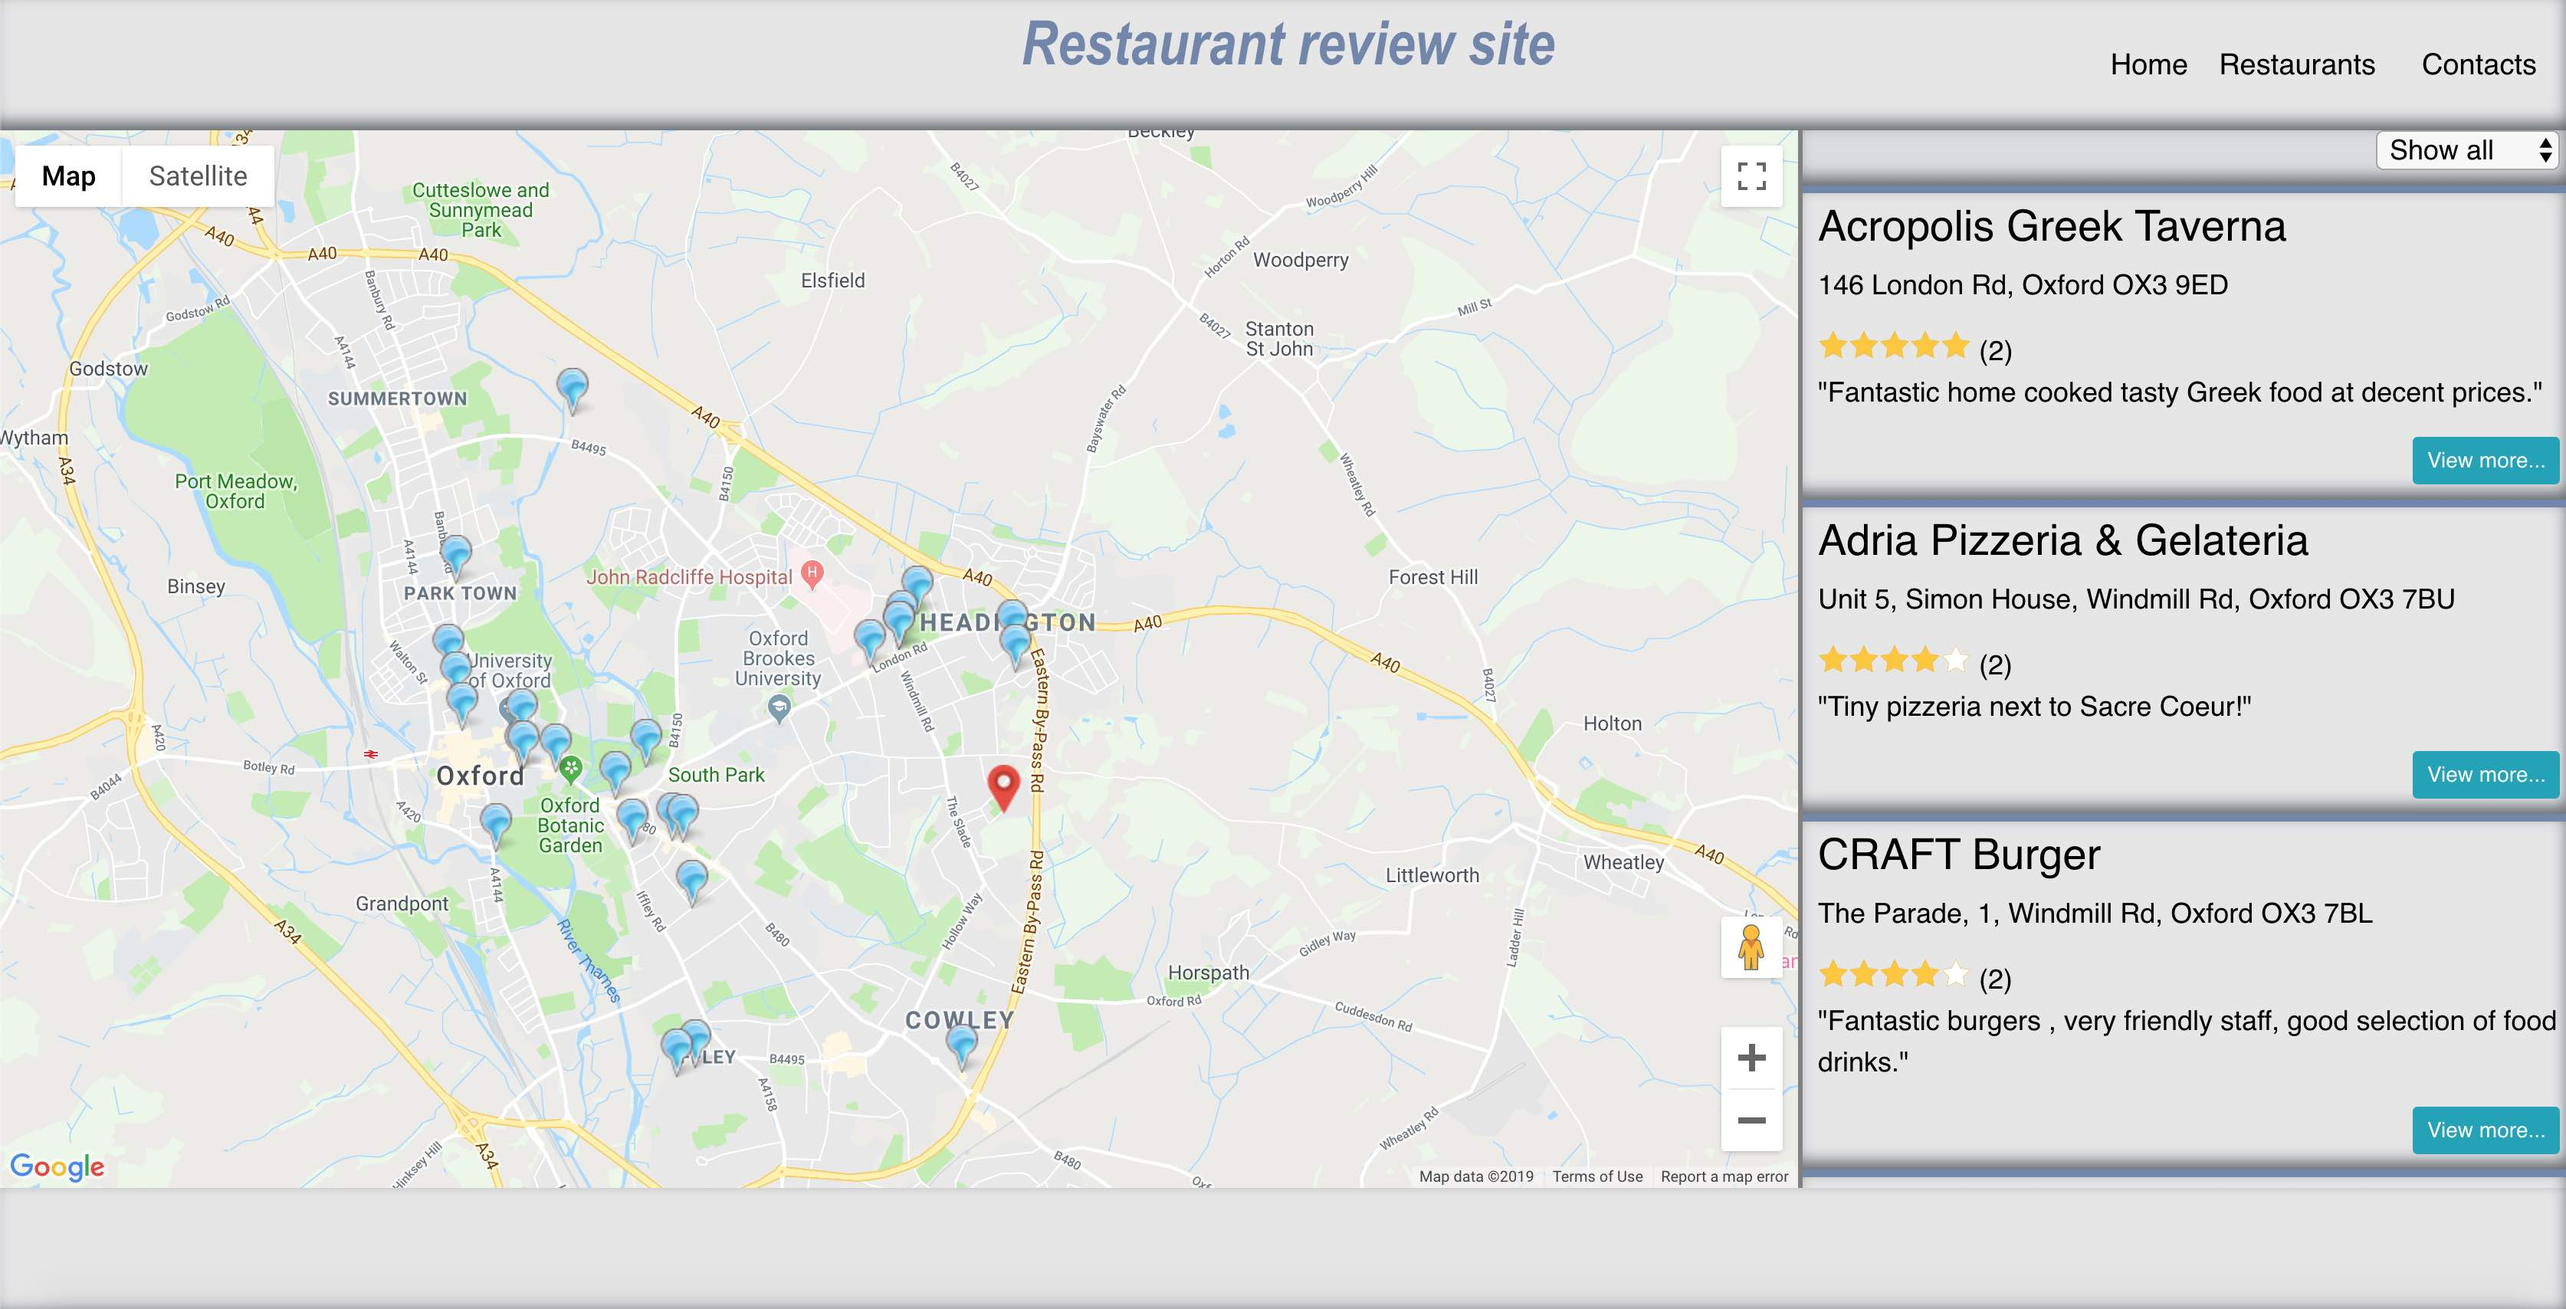
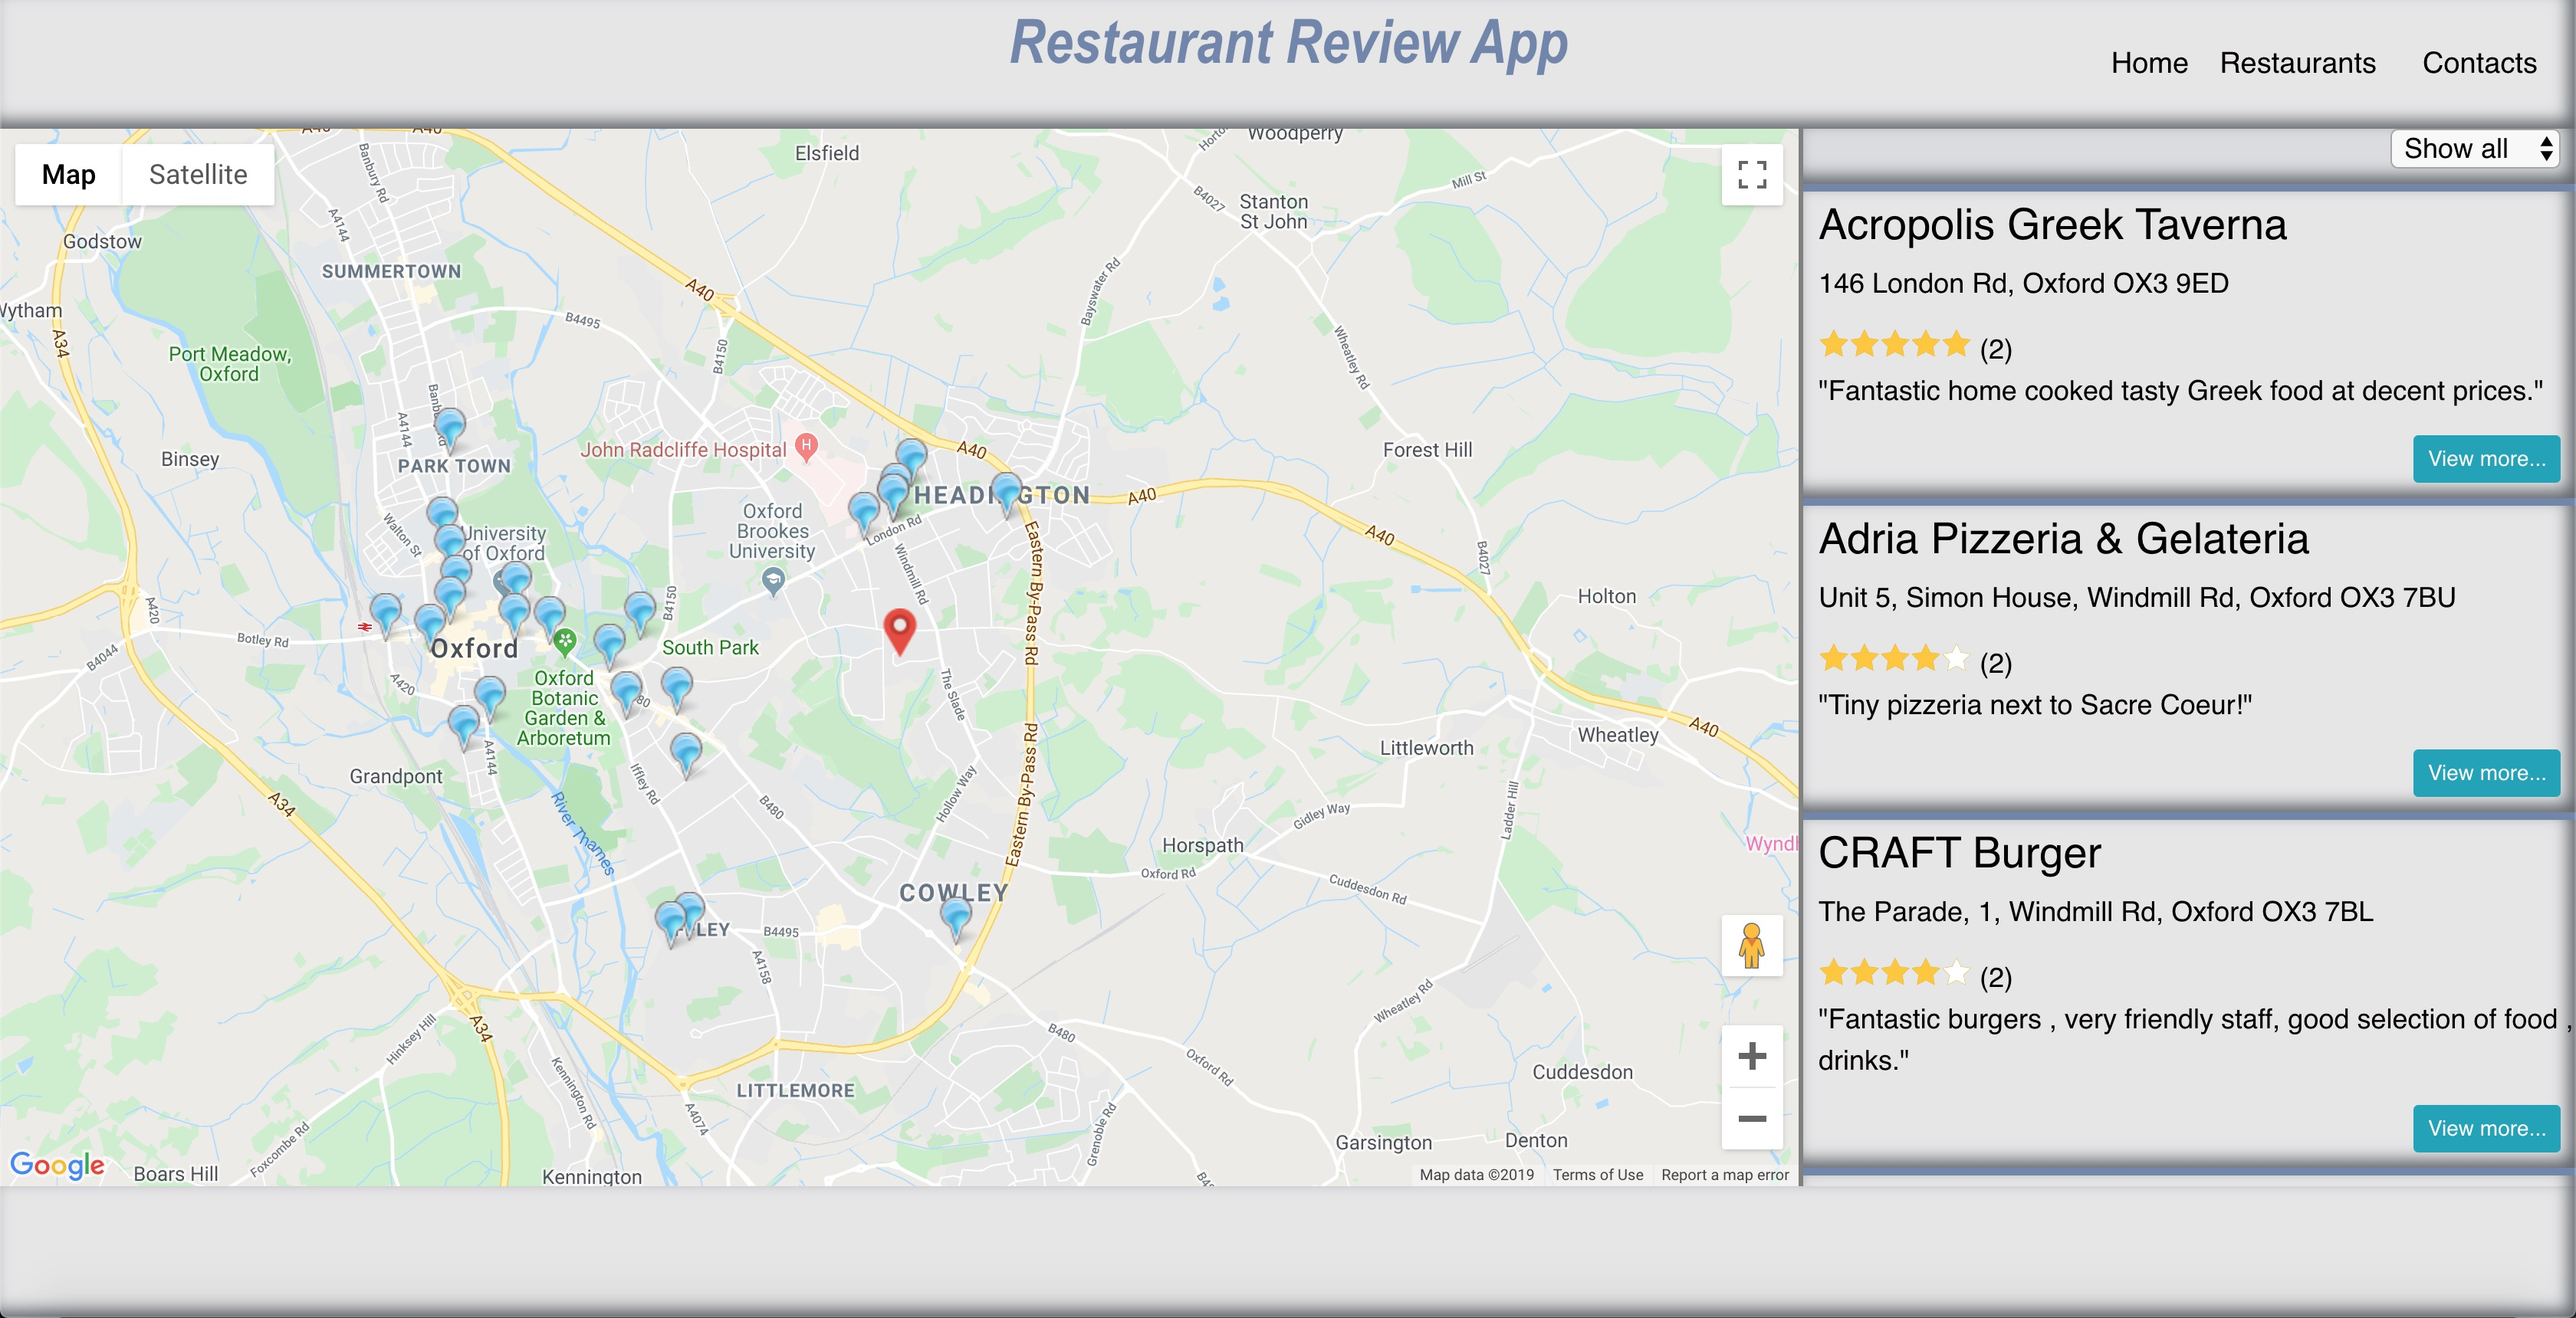
added link for demo video

diff --git a/src/Components/headerComponent/header.js b/src/Components/headerComponent/header.js
@@ -6,7 +6,7 @@ class Header extends React.Component {
             <header className="Header">
 
                 <div className="logo">
-                    <h1 className="title">Restaurant review site</h1>
+                    <h1 className="title">Restaurant Review App</h1>
                 </div>
 
                 <nav>

diff --git a/README.md b/README.md
@@ -1,6 +1,6 @@
-Project 7 // Restaurant review site
+# Restaurant Review App
 
-This site is designed to review your local restaurants and add reviews if you wish to. 
+This app is designed to review your local restaurants and add reviews if you wish to. 
 
 Restaurants appear on the map and also in the list view on the right hand side. 
 By clicking on the map, you can add your favourite restaurant, if it isn't on the map already. All you need to do is to fill in the form and submit. Your favourite restaurant will appear on the list and anyone can see and write review to it.
@@ -8,6 +8,6 @@ By clicking on the map, you can add your favourite restaurant, if it isn't on th
 To add a new review, you will have to click "View more" in the list view in order to see more reviews, and then the "Add new" button to add your rating and comment.
 
 
-[Link to demo video](https://drive.google.com/file/d/1sF3lOHU-C87v2t9SExshXfSVynu8IURQ/view)
+[Link to demo video](https://drive.google.com/file/d/1qQXmhsLAuzVj4DrKZvsFqegjbCRb8GOB/view)
 
 ![demo picture](/image/restaurant-app.jpg)
